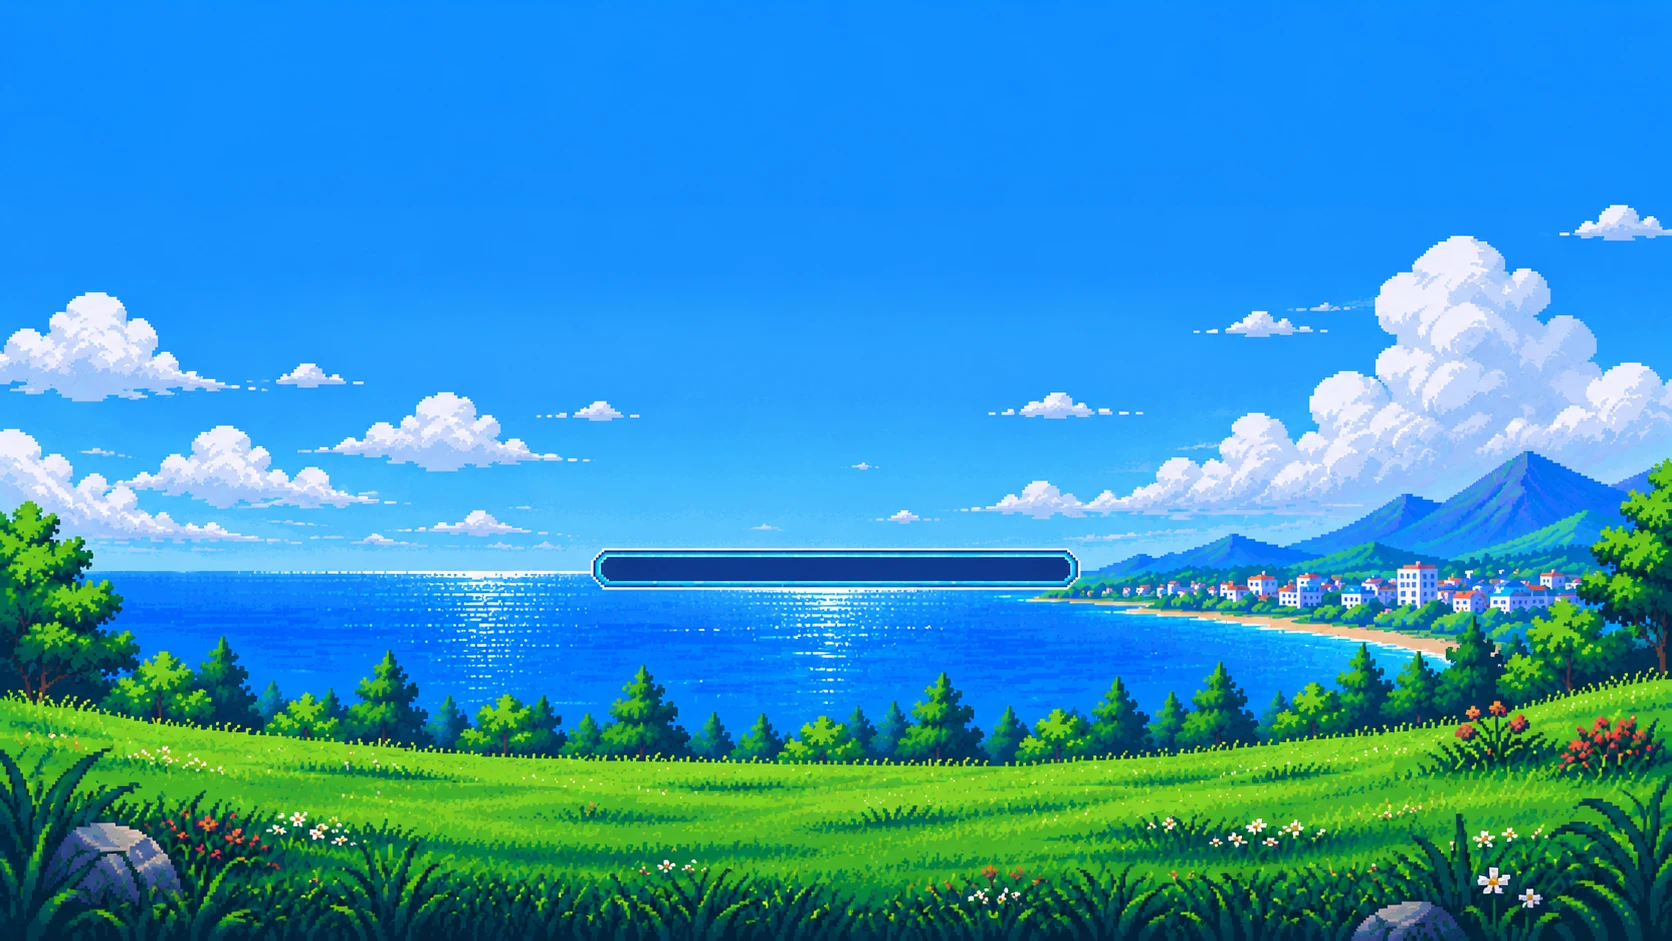
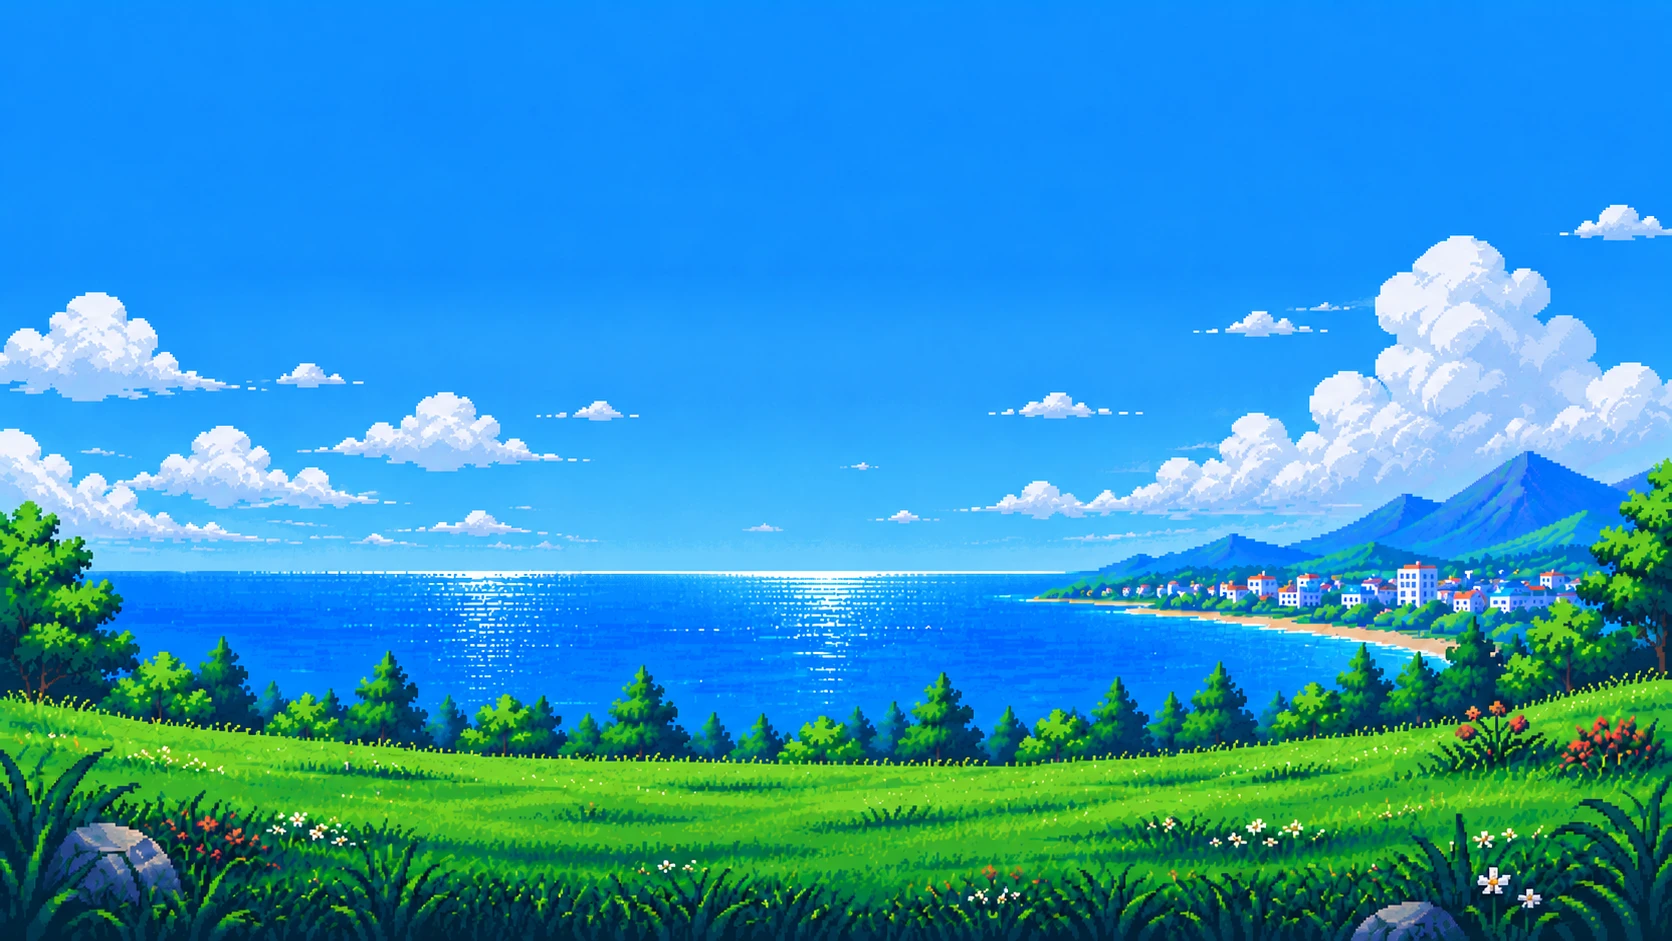
Refactor: simplify loading screen — new bg image, no bar, remove admin tab
- Replace loading-bg.webp with new clean pixel art landscape
- LoadingSplash: remove all bar/config logic; now just full-screen bg
  image with centered logo animation + fade-out on ready
- useSiteConfig: remove LoadingScreenConfig, DEFAULT_LOADING_CONFIG,
  and useLoadingScreenConfig hook entirely
- AdminDashboard: remove Loading Screen tab, import, and type entry
- LoadingScreenTab.tsx: no longer imported (orphaned, safe to delete)

diff --git a/src/admin/AdminDashboard.tsx b/src/admin/AdminDashboard.tsx
@@ -1,6 +1,6 @@
 import React, { useState } from 'react';
 import { motion, AnimatePresence } from 'framer-motion';
-import { Package, LogOut, Shield, ShieldCheck, CheckCircle, AlertCircle, Users, BarChart3, History, Home, MessageCircle, Banknote, FileText, Mail, Swords, SlidersHorizontal, Ticket, Loader } from 'lucide-react';
+import { Package, LogOut, Shield, ShieldCheck, CheckCircle, AlertCircle, Users, BarChart3, History, Home, MessageCircle, Banknote, FileText, Mail, Swords, SlidersHorizontal, Ticket } from 'lucide-react';
 import { PacksTab } from './PacksTab';
 import { UsersTab } from './UsersTab';
 import { PullsTab } from './PullsTab';
@@ -13,9 +13,9 @@ import { EmailsTab } from './EmailsTab';
 import { AdminPokeBrawlPanel } from './AdminPokeBrawlPanel';
 import { SiteSettingsTab } from './SiteSettingsTab';
 import { CodesAndDealsTab } from './CodesAndDealsTab';
-import { LoadingScreenTab } from './LoadingScreenTab';
 
-type Tab = 'packs' | 'users' | 'pulls' | 'stats' | 'support' | 'cashouts' | 'logs' | 'emails' | 'provably-fair' | 'brawl' | 'site-settings' | 'codes-deals' | 'loading-screen';
+
+type Tab = 'packs' | 'users' | 'pulls' | 'stats' | 'support' | 'cashouts' | 'logs' | 'emails' | 'provably-fair' | 'brawl' | 'site-settings' | 'codes-deals';
 interface Props { onLogout: () => void; }
 function useToast() { const [toast, setToast] = useState<{ msg: string; ok: boolean } | null>(null); const show = (msg: string, ok = true) => { setToast({ msg, ok }); setTimeout(() => setToast(null), 3500); }; return { toast, show }; }
 
@@ -23,12 +23,12 @@ export const AdminDashboard: React.FC<Props> = ({ onLogout }) => {
   const [tab, setTab] = useState<Tab>('packs');
   const { toast, show: showToast } = useToast();
   const tabs: { id: Tab; label: string; icon: React.ReactNode }[] = [
-    { id: 'packs', label: 'Packs', icon: <Package size={14} /> }, { id: 'users', label: 'Users', icon: <Users size={14} /> }, { id: 'pulls', label: 'Recent Pulls', icon: <History size={14} /> }, { id: 'stats', label: 'Stats', icon: <BarChart3 size={14} /> }, { id: 'support', label: 'Support Chats', icon: <MessageCircle size={14} /> }, { id: 'cashouts', label: 'Cash Outs', icon: <Banknote size={14} /> }, { id: 'logs', label: 'Logs', icon: <FileText size={14} /> }, { id: 'emails', label: 'Emails', icon: <Mail size={14} /> }, { id: 'provably-fair', label: 'Provably Fair', icon: <ShieldCheck size={14} /> }, { id: 'brawl', label: 'Poke Brawl', icon: <Swords size={14} /> }, { id: 'site-settings', label: 'Site Settings', icon: <SlidersHorizontal size={14} /> }, { id: 'codes-deals', label: 'Codes and Deals', icon: <Ticket size={14} /> }, { id: 'loading-screen', label: 'Loading Screen', icon: <Loader size={14} /> },
+    { id: 'packs', label: 'Packs', icon: <Package size={14} /> }, { id: 'users', label: 'Users', icon: <Users size={14} /> }, { id: 'pulls', label: 'Recent Pulls', icon: <History size={14} /> }, { id: 'stats', label: 'Stats', icon: <BarChart3 size={14} /> }, { id: 'support', label: 'Support Chats', icon: <MessageCircle size={14} /> }, { id: 'cashouts', label: 'Cash Outs', icon: <Banknote size={14} /> }, { id: 'logs', label: 'Logs', icon: <FileText size={14} /> }, { id: 'emails', label: 'Emails', icon: <Mail size={14} /> }, { id: 'provably-fair', label: 'Provably Fair', icon: <ShieldCheck size={14} /> }, { id: 'brawl', label: 'Poke Brawl', icon: <Swords size={14} /> }, { id: 'site-settings', label: 'Site Settings', icon: <SlidersHorizontal size={14} /> }, { id: 'codes-deals', label: 'Codes and Deals', icon: <Ticket size={14} /> },
   ];
   return <div className="min-h-screen text-white" style={{ background: '#111113' }}>
     <header className="sticky top-0 z-30 min-h-14 flex items-center justify-between gap-3 px-3 sm:px-6 py-2 border-b border-white/5" style={{ background: 'rgba(7,8,14,0.96)', backdropFilter: 'blur(20px)' }}><div className="flex items-center gap-2 min-w-0"><Shield size={17} className="text-[#9b5cff] shrink-0" /><span className="font-display text-xs sm:text-sm uppercase tracking-widest text-white/70 truncate">Admin Panel</span><span className="hidden sm:inline text-[9px] px-2 py-0.5 rounded-full font-bold uppercase shrink-0" style={{ background: 'rgba(155,92,255,0.15)', color: '#9b5cff', border: '1px solid rgba(155,92,255,0.3)' }}>PocketPull TCG</span></div><div className="flex items-center gap-1.5 shrink-0"><button onClick={() => { window.location.href = '/'; }} aria-label="Back to Site" className="flex items-center gap-1.5 px-2 sm:px-3 py-1.5 rounded-lg text-[10px] sm:text-[11px] font-bold uppercase tracking-wider" style={{ color: '#00c8ff', background: 'rgba(0,200,255,0.08)', border: '1px solid rgba(0,200,255,0.2)' }}><Home size={13} /><span className="hidden sm:inline">Back to Site</span></button><button onClick={onLogout} aria-label="Logout" className="flex items-center gap-1.5 px-2 sm:px-3 py-1.5 rounded-lg text-red-400/60 hover:text-red-400 hover:bg-red-400/10 text-[10px] sm:text-[11px] font-bold uppercase tracking-wider"><LogOut size={13} /><span className="hidden sm:inline">Logout</span></button></div></header>
     <div className="sticky top-14 z-20 border-b border-white/5 px-2 sm:px-6" style={{ background: 'rgba(7,8,14,0.94)', backdropFilter: 'blur(16px)' }}><div className="max-w-[1900px] mx-auto flex gap-1 overflow-x-auto overscroll-x-contain snap-x snap-mandatory" role="tablist">{tabs.map(t => <button key={t.id} onClick={() => setTab(t.id)} role="tab" aria-selected={tab === t.id} className="relative flex items-center gap-1.5 px-3 sm:px-4 py-3 text-[10px] sm:text-[11px] font-bold uppercase tracking-wider whitespace-nowrap shrink-0 snap-start" style={{ color: tab === t.id ? '#fff' : 'rgba(255,255,255,0.3)' }}>{t.icon} {t.label}{tab === t.id && <motion.div layoutId="tab-indicator" className="absolute bottom-0 left-1 right-1 h-0.5" style={{ background: 'linear-gradient(90deg, #9b5cff, #00c8ff)' }} />}</button>)}</div></div>
-    <main className="max-w-[1900px] mx-auto px-3 sm:px-4 py-4 sm:py-6 min-w-0 overflow-x-hidden"><AnimatePresence mode="wait"><motion.div key={tab} initial={{ opacity: 0, y: 8 }} animate={{ opacity: 1, y: 0 }} exit={{ opacity: 0, y: -4 }} transition={{ duration: 0.18 }}>{tab === 'packs' && <PacksTab showToast={showToast} />}{tab === 'users' && <UsersTab showToast={showToast} />}{tab === 'pulls' && <PullsTab />}{tab === 'stats' && <StatsTabFixed />}{tab === 'support' && <SupportChatsTabFixed showToast={showToast} />}{tab === 'cashouts' && <CashOutsTabFixed showToast={showToast} />}{tab === 'logs' && <LogsTabFixed />}{tab === 'emails' && <EmailsTab showToast={showToast} />}{tab === 'provably-fair' && <ProvablyFairTab showToast={showToast} />}{tab === 'brawl' && <AdminPokeBrawlPanel showToast={showToast} />}{tab === 'site-settings' && <SiteSettingsTab showToast={showToast} />}{tab === 'codes-deals' && <CodesAndDealsTab showToast={showToast} />}{tab === 'loading-screen' && <LoadingScreenTab showToast={showToast} />}</motion.div></AnimatePresence></main>
+    <main className="max-w-[1900px] mx-auto px-3 sm:px-4 py-4 sm:py-6 min-w-0 overflow-x-hidden"><AnimatePresence mode="wait"><motion.div key={tab} initial={{ opacity: 0, y: 8 }} animate={{ opacity: 1, y: 0 }} exit={{ opacity: 0, y: -4 }} transition={{ duration: 0.18 }}>{tab === 'packs' && <PacksTab showToast={showToast} />}{tab === 'users' && <UsersTab showToast={showToast} />}{tab === 'pulls' && <PullsTab />}{tab === 'stats' && <StatsTabFixed />}{tab === 'support' && <SupportChatsTabFixed showToast={showToast} />}{tab === 'cashouts' && <CashOutsTabFixed showToast={showToast} />}{tab === 'logs' && <LogsTabFixed />}{tab === 'emails' && <EmailsTab showToast={showToast} />}{tab === 'provably-fair' && <ProvablyFairTab showToast={showToast} />}{tab === 'brawl' && <AdminPokeBrawlPanel showToast={showToast} />}{tab === 'site-settings' && <SiteSettingsTab showToast={showToast} />}{tab === 'codes-deals' && <CodesAndDealsTab showToast={showToast} />}</motion.div></AnimatePresence></main>
     <AnimatePresence>{toast && <motion.div key="toast" initial={{ opacity: 0, y: 20 }} animate={{ opacity: 1, y: 0 }} exit={{ opacity: 0, y: 10 }} className="fixed bottom-6 left-1/2 -translate-x-1/2 flex items-center gap-2 px-5 py-3 rounded-xl text-[12px] font-display z-[200] whitespace-nowrap" style={{ background: toast.ok ? 'rgba(16,185,129,0.15)' : 'rgba(248,113,113,0.15)', border: `1px solid ${toast.ok ? 'rgba(16,185,129,0.4)' : 'rgba(248,113,113,0.4)'}`, color: toast.ok ? '#10b981' : '#f87171', backdropFilter: 'blur(12px)' }}>{toast.ok ? <CheckCircle size={14} /> : <AlertCircle size={14} />}{toast.msg}</motion.div>}</AnimatePresence>
   </div>;
 };

diff --git a/src/components/LoadingSplash.tsx b/src/components/LoadingSplash.tsx
@@ -1,51 +1,14 @@
 import React, { useState, useEffect, useRef } from 'react';
 import { motion, AnimatePresence } from 'framer-motion';
-import { useLoadingScreenConfig, DEFAULT_LOADING_CONFIG } from '../hooks/useSiteConfig';
 
 interface LoadingSplashProps {
   ready?: boolean;
 }
 
 export const LoadingSplash: React.FC<LoadingSplashProps> = ({ ready = true }) => {
-  const { config } = useLoadingScreenConfig();
-  const messages = config.messages.length ? config.messages : DEFAULT_LOADING_CONFIG.messages;
-
-  const [visible, setVisible]     = useState(true);
-  const [progress, setProgress]   = useState(0);
-  const [stepIndex, setStepIndex] = useState(0);
-  const rafRef = useRef<number | null>(null);
-  const MIN_BRANDED_DURATION = 650;
+  const [visible, setVisible] = useState(true);
+  const MIN_BRANDED_DURATION = 800;
   const MAX_WAIT_DURATION    = 15000;
-  const PROGRESS_CAP         = 92;
-
-  const barHeight  = config.barHeight  ?? DEFAULT_LOADING_CONFIG.barHeight;
-  const barRadius  = config.barRadius  ?? DEFAULT_LOADING_CONFIG.barRadius;
-  const barWidth   = config.barWidth   ?? DEFAULT_LOADING_CONFIG.barWidth;
-  const barX       = config.barX       ?? DEFAULT_LOADING_CONFIG.barX;
-  const barY       = config.barY       ?? DEFAULT_LOADING_CONFIG.barY;
-  const barColor1  = config.barColor1  ?? DEFAULT_LOADING_CONFIG.barColor1;
-  const barColor2  = config.barColor2  ?? DEFAULT_LOADING_CONFIG.barColor2;
-
-  useEffect(() => {
-    const animate = () => {
-      setProgress(prev => {
-        if (prev >= PROGRESS_CAP) return prev;
-        const remaining = PROGRESS_CAP - prev;
-        const increment = Math.max(0.15, remaining * 0.04);
-        return Math.min(PROGRESS_CAP, prev + increment);
-      });
-      rafRef.current = requestAnimationFrame(animate);
-    };
-    rafRef.current = requestAnimationFrame(animate);
-    return () => { if (rafRef.current) cancelAnimationFrame(rafRef.current); };
-  }, []);
-
-  useEffect(() => {
-    const interval = setInterval(() => {
-      setStepIndex(i => (i + 1) % messages.length);
-    }, 1100);
-    return () => clearInterval(interval);
-  }, [messages.length]);
 
   useEffect(() => {
     const mountedAt = performance.now();
@@ -53,7 +16,6 @@ export const LoadingSplash: React.FC<LoadingSplashProps> = ({ ready = true }) =>
     const dismiss = () => {
       if (dismissed) return;
       dismissed = true;
-      setProgress(100);
       setTimeout(() => setVisible(false), 220);
     };
     const maybeDismiss = () => {
@@ -65,17 +27,14 @@ export const LoadingSplash: React.FC<LoadingSplashProps> = ({ ready = true }) =>
     return () => { dismissed = true; window.clearTimeout(fallback); };
   }, [ready]);
 
-  // barY positions the BAR GROUP (message + bar + %). Logo floats 240px above it.
-  const LOGO_OFFSET = 240;
-
   return (
     <AnimatePresence>
       {visible && (
         <motion.div
           initial={{ opacity: 1 }}
-          exit={{ opacity: 0, scale: 1.015 }}
-          transition={{ duration: 0.65, ease: [0.4, 0, 0.2, 1] }}
-          className="fixed inset-0 z-[200] overflow-hidden"
+          exit={{ opacity: 0 }}
+          transition={{ duration: 0.6, ease: [0.4, 0, 0.2, 1] }}
+          className="fixed inset-0 z-[200] flex items-center justify-center overflow-hidden"
           style={{
             backgroundImage: "url('/loading-bg.webp')",
             backgroundSize: 'cover',
@@ -83,115 +42,18 @@ export const LoadingSplash: React.FC<LoadingSplashProps> = ({ ready = true }) =>
             backgroundRepeat: 'no-repeat',
           }}
         >
-          <div
-            className="absolute inset-0 pointer-events-none"
-            style={{ background: 'rgba(4, 8, 16, 0.18)' }}
-          />
-
-          {/* Logo — floats LOGO_OFFSET px above the bar group */}
-          <motion.div
-            initial={{ opacity: 0, scale: 0.7 }}
-            animate={{ opacity: 1, scale: 1 }}
+          <motion.img
+            src="/pocketpull-logo.png"
+            alt="PocketPull"
+            initial={{ opacity: 0, scale: 0.75, y: 20 }}
+            animate={{ opacity: 1, scale: 1, y: 0 }}
             transition={{ duration: 0.9, ease: [0.16, 1, 0.3, 1] }}
-            className="absolute"
             style={{
-              top: `calc(${barY}% - ${LOGO_OFFSET}px)`,
-              left: `${barX}%`,
-              transform: 'translateX(-50%)',
+              width: '180px',
+              height: '180px',
+              filter: 'drop-shadow(0 8px 32px rgba(0,0,0,0.55))',
             }}
-          >
-            <img
-              src="/pocketpull-logo.png"
-              alt="PocketPull"
-              style={{ width: '200px', height: '200px', display: 'block', filter: 'drop-shadow(0 8px 24px rgba(0,0,0,0.5))' }}
-            />
-          </motion.div>
-
-          {/* Bar group — barX/barY control its center */}
-          <motion.div
-            initial={{ opacity: 0, y: 14 }}
-            animate={{ opacity: 1, y: 0 }}
-            transition={{ delay: 0.5, duration: 0.7 }}
-            className="absolute flex flex-col items-center"
-            style={{
-              top: `${barY}%`,
-              left: `${barX}%`,
-              transform: 'translate(-50%, -50%)',
-              width: '420px',
-              maxWidth: '90vw',
-              gap: '10px',
-            }}
-          >
-            {/* Cycling message */}
-            <AnimatePresence mode="wait">
-              <motion.p
-                key={stepIndex}
-                initial={{ opacity: 0, y: 5 }}
-                animate={{ opacity: 1, y: 0 }}
-                exit={{ opacity: 0, y: -5 }}
-                transition={{ duration: 0.25 }}
-                className="font-display text-white text-center uppercase w-full"
-                style={{
-                  fontSize: '0.7rem',
-                  letterSpacing: '0.05em',
-                  textShadow: '0 2px 8px rgba(0,0,0,0.9), 0 0 20px rgba(155,92,255,0.5)',
-                }}
-              >
-                {messages[stepIndex % messages.length]}
-              </motion.p>
-            </AnimatePresence>
-
-            {/* Bar track — uses explicit size; fill uses explicit positioning (no inset) */}
-            <div
-              style={{
-                position: 'relative',
-                width: `${barWidth}%`,
-                height: `${barHeight}px`,
-                borderRadius: `${barRadius}px`,
-                background: 'rgba(4, 6, 16, 0.82)',
-                border: '2px solid rgba(255,255,255,0.45)',
-                boxShadow: '0 0 0 2px rgba(0,0,0,0.72), 0 4px 24px rgba(0,0,0,0.4), inset 0 2px 6px rgba(0,0,0,0.5)',
-                overflow: 'hidden',
-                flexShrink: 0,
-              }}
-            >
-              {/* Fill */}
-              <div
-                style={{
-                  position: 'absolute',
-                  top: 0,
-                  left: 0,
-                  height: '100%',
-                  width: `${progress}%`,
-                  borderRadius: `${barRadius}px`,
-                  background: `linear-gradient(90deg, ${barColor1} 0%, ${barColor2} 100%)`,
-                  boxShadow: `0 0 14px ${barColor2}cc`,
-                  transition: 'width 0.12s linear',
-                }}
-              />
-              {/* Highlight stripe */}
-              <div
-                style={{
-                  position: 'absolute',
-                  top: '3px',
-                  left: 0,
-                  height: '4px',
-                  width: `${progress}%`,
-                  background: 'rgba(255,255,255,0.26)',
-                  transition: 'width 0.12s linear',
-                  pointerEvents: 'none',
-                }}
-              />
-            </div>
-
-            {/* Percentage */}
-            <p
-              className="font-display text-white tabular-nums"
-              style={{ fontSize: '0.7rem', textShadow: '0 2px 8px rgba(0,0,0,0.9)' }}
-            >
-              {Math.round(progress)}%
-            </p>
-          </motion.div>
+          />
         </motion.div>
       )}
     </AnimatePresence>

diff --git a/src/hooks/useSiteConfig.ts b/src/hooks/useSiteConfig.ts
@@ -1,71 +1,6 @@
 import { useQuery, useMutation, useQueryClient } from '@tanstack/react-query';
 import { supabase } from '../lib/supabase';
 
-// ── Loading Screen Config ────────────────────────────────────────────────────
-
-export interface LoadingScreenConfig {
-  messages: string[];
-  barColor1: string;
-  barColor2: string;
-  barHeight: number;
-  barRadius: number;
-  barX: number;
-  barY: number;
-  barWidth: number;
-}
-
-export const DEFAULT_LOADING_CONFIG: LoadingScreenConfig = {
-  messages: [
-    'Loading Your Collection...',
-    'Preparing Your Pulls...',
-    'Entering the Vault...',
-    'Initializing Pack System...',
-  ],
-  barColor1: '#7c3aed',
-  barColor2: '#c084fc',
-  barHeight: 22,
-  barRadius: 0,
-  barX: 50,
-  barY: 65,
-  barWidth: 80,
-};
-
-const LOADING_KEY = ['site_config', 'loading_screen'];
-
-export function useLoadingScreenConfig() {
-  const queryClient = useQueryClient();
-
-  const { data: config = DEFAULT_LOADING_CONFIG } = useQuery<LoadingScreenConfig>({
-    queryKey: LOADING_KEY,
-    queryFn: async () => {
-      if (!supabase) return DEFAULT_LOADING_CONFIG;
-      const { data, error } = await supabase
-        .from('site_config')
-        .select('value')
-        .eq('key', 'loading_screen')
-        .single();
-      if (error || !data) return DEFAULT_LOADING_CONFIG;
-      return { ...DEFAULT_LOADING_CONFIG, ...(data.value as Partial<LoadingScreenConfig>) };
-    },
-    staleTime: 10 * 60 * 1000,
-  });
-
-  const { mutateAsync: saveConfig, isPending: isSaving } = useMutation({
-    mutationFn: async (newConfig: LoadingScreenConfig) => {
-      if (!supabase) throw new Error('Supabase unavailable');
-      const { error } = await supabase
-        .from('site_config')
-        .upsert({ key: 'loading_screen', value: newConfig, updated_at: new Date().toISOString() });
-      if (error) throw error;
-    },
-    onSuccess: (_, newConfig) => {
-      queryClient.setQueryData(LOADING_KEY, newConfig);
-    },
-  });
-
-  return { config, saveConfig, isSaving };
-}
-
 export interface CardPosition {
   name: string;
   left: number;
